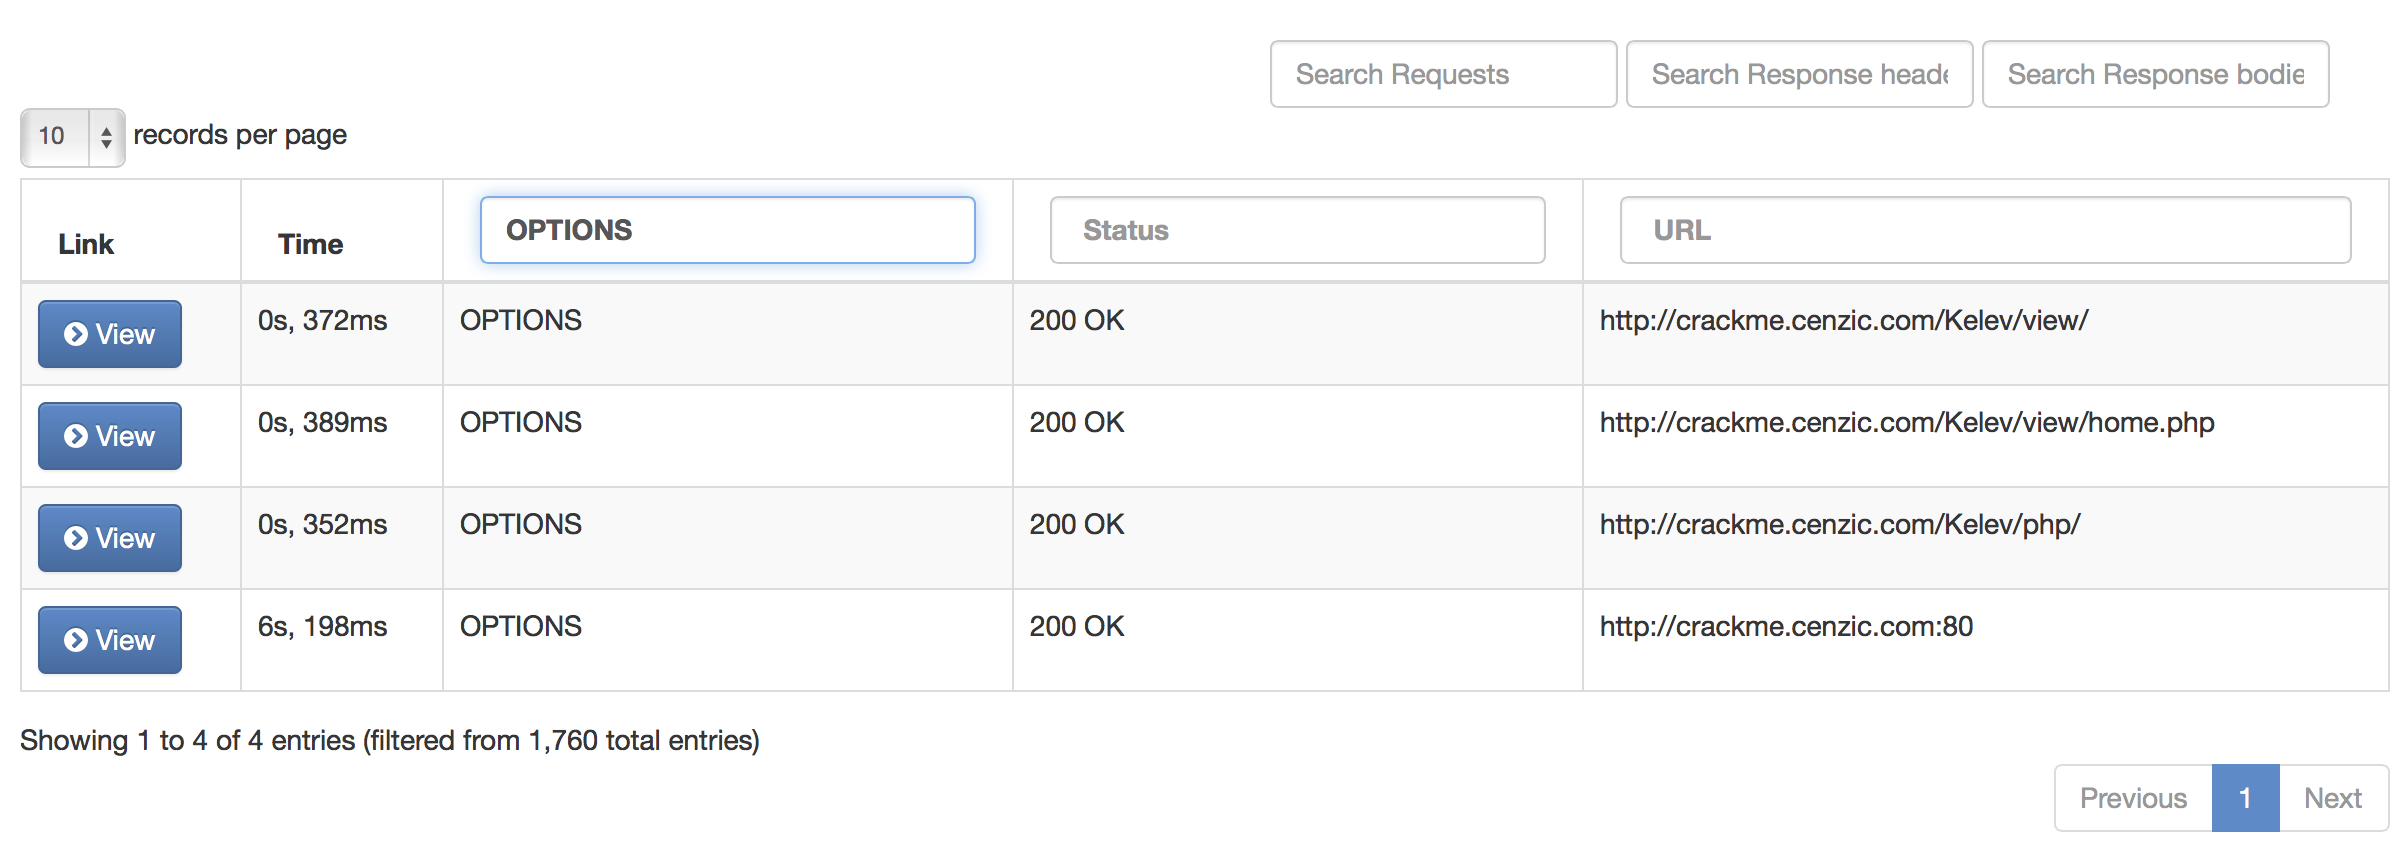
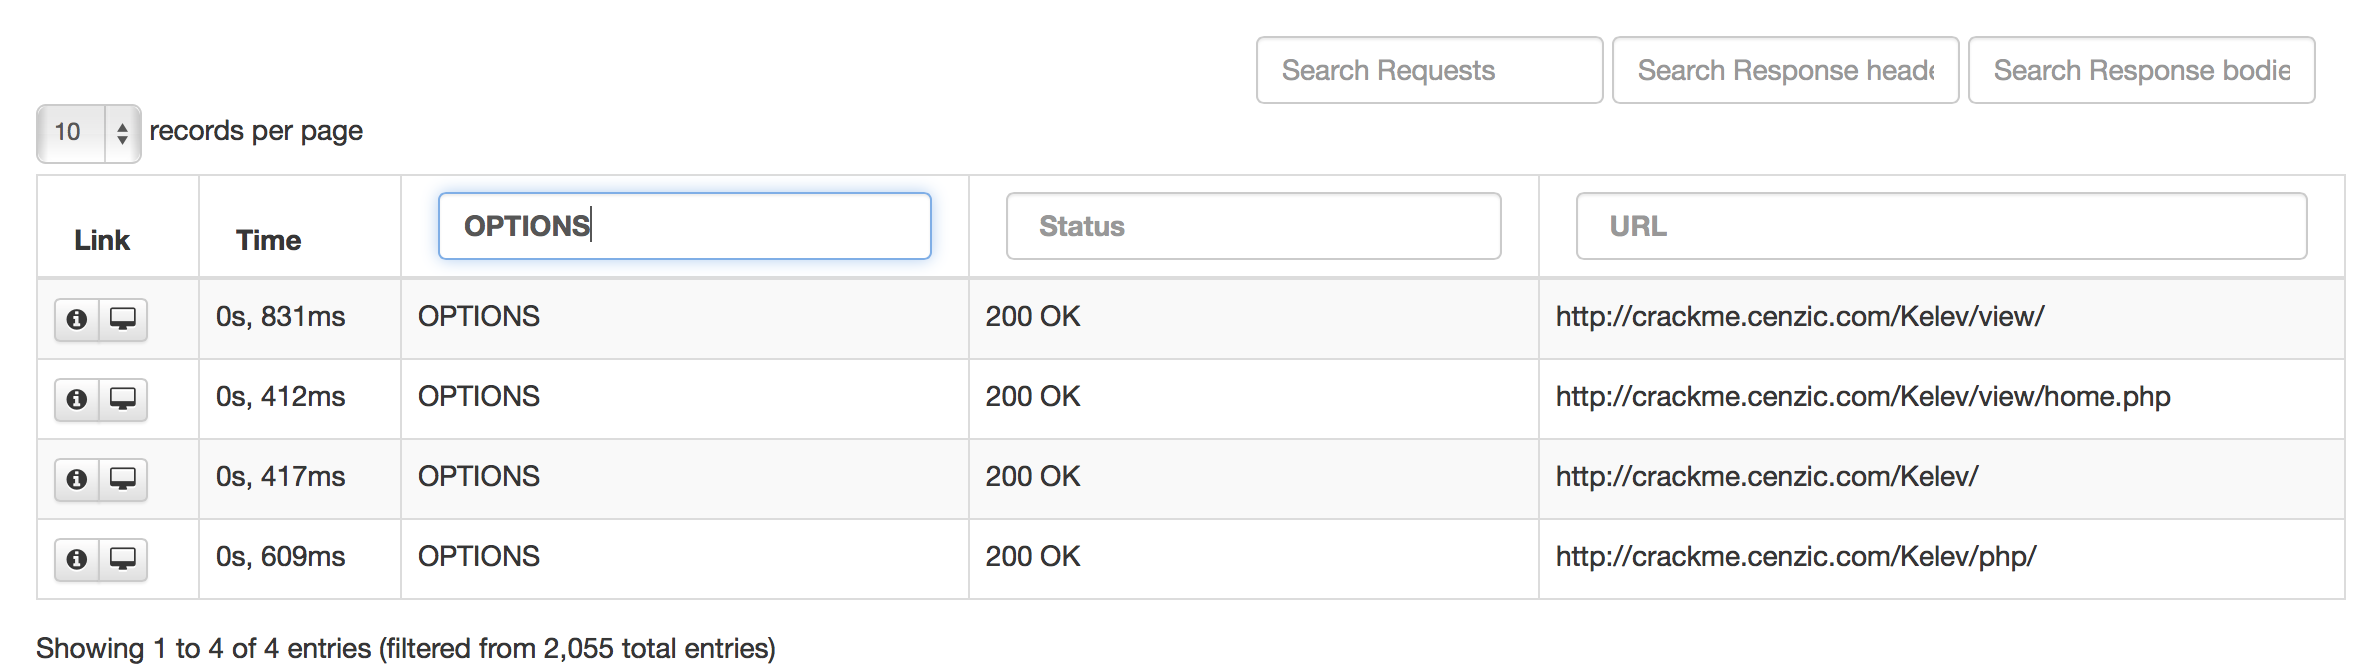
Fixed #1 & #2

diff --git a/usage/results/transaction_log.rst b/usage/results/transaction_log.rst
@@ -6,3 +6,14 @@ You can search in multiple fields. A sample look of the transaction log is
 
     .. figure:: /images/filtered_transaction_log.png
         :align: center
+
+There are two ways in which individual transactions can be viewed
+
+    * Each transaction in new tab
+    * Transaction in a modal window
+
+Clicking on the info button will open a model window which allows you to navigate back & forth between
+the filtered transactions. The search words are highlighted as well.
+
+    .. figure:: /images/transaction_modal.png
+        :align: center

diff --git a/README.md b/README.md
@@ -3,13 +3,15 @@ How to write user docs
 
 Make sure you have `sphinx` and `sphinx_rtd_theme` installed
 
-.. code-block:: bash
+    ```
     pip install sphinx sphinx_rtd_theme
+    ```
 
 After editing the documentation, generate html using
 
-.. code-block:: bash
+    ```
     make html
+    ```
 
 Once you are satisfied with the changes, please push to the repo :)
 

diff --git a/usage/results/plugin_report.rst b/usage/results/plugin_report.rst
@@ -23,6 +23,7 @@ The details presented in a plugin report are:
     * Run time of the plugin
     * Time interval during which it was running
     * Status of the plugin (i.e if it was aborted by user etc..)
+    * A button to rerun plugin
     * A button to delete the plugin output
     * A button to add notes
     * Actual plugin output
